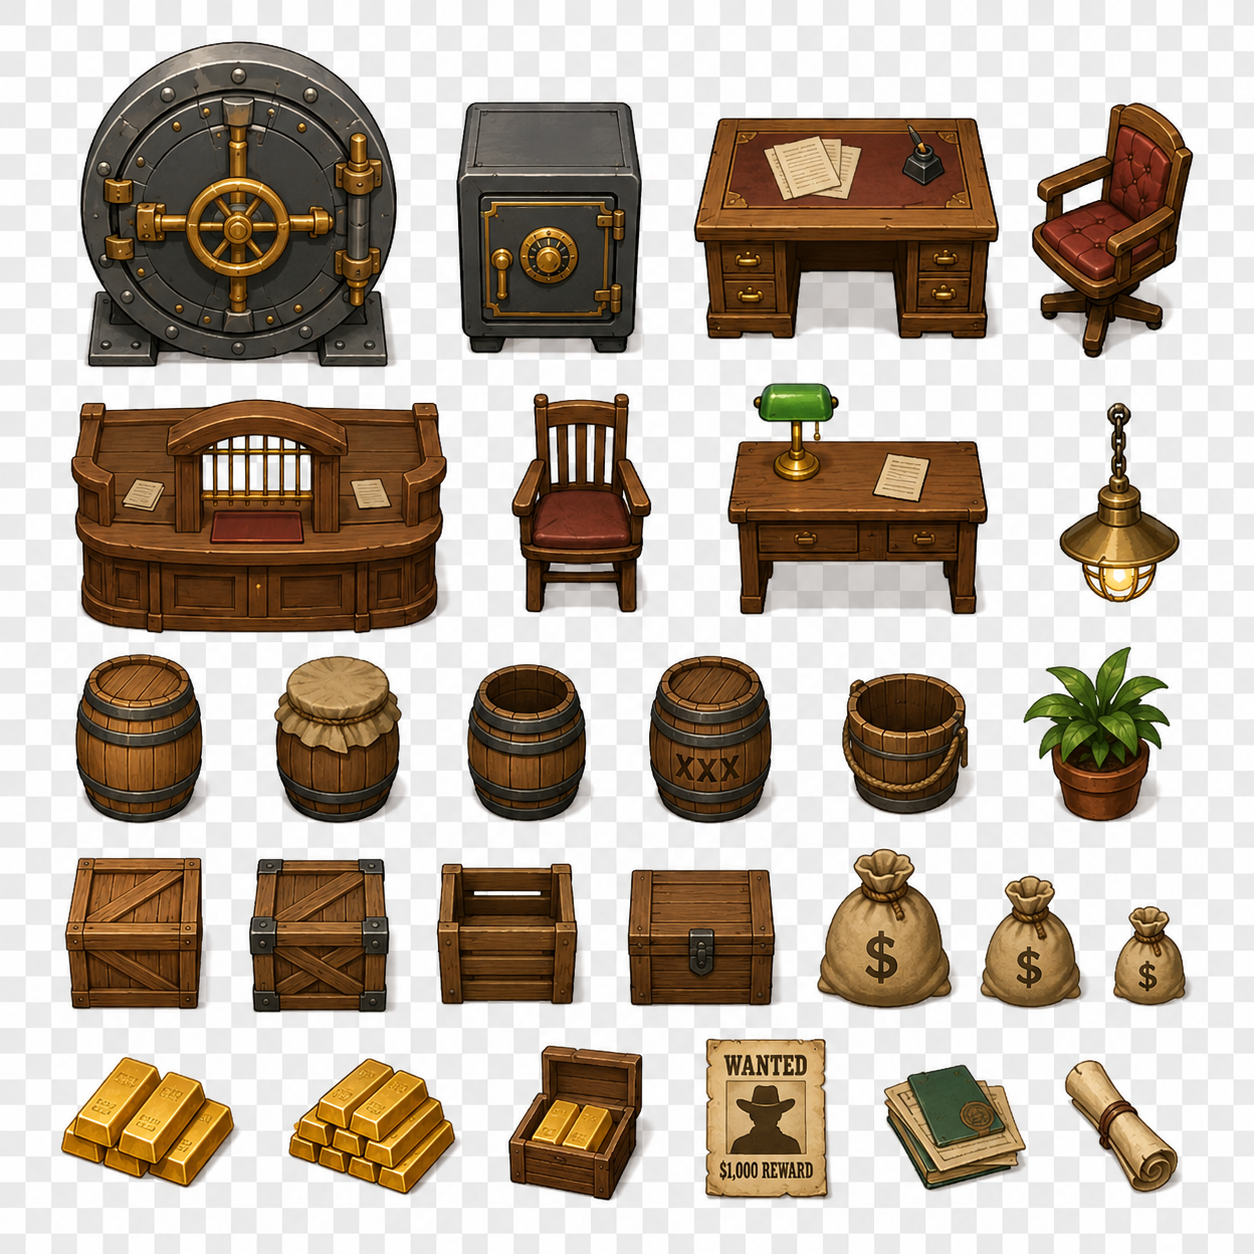
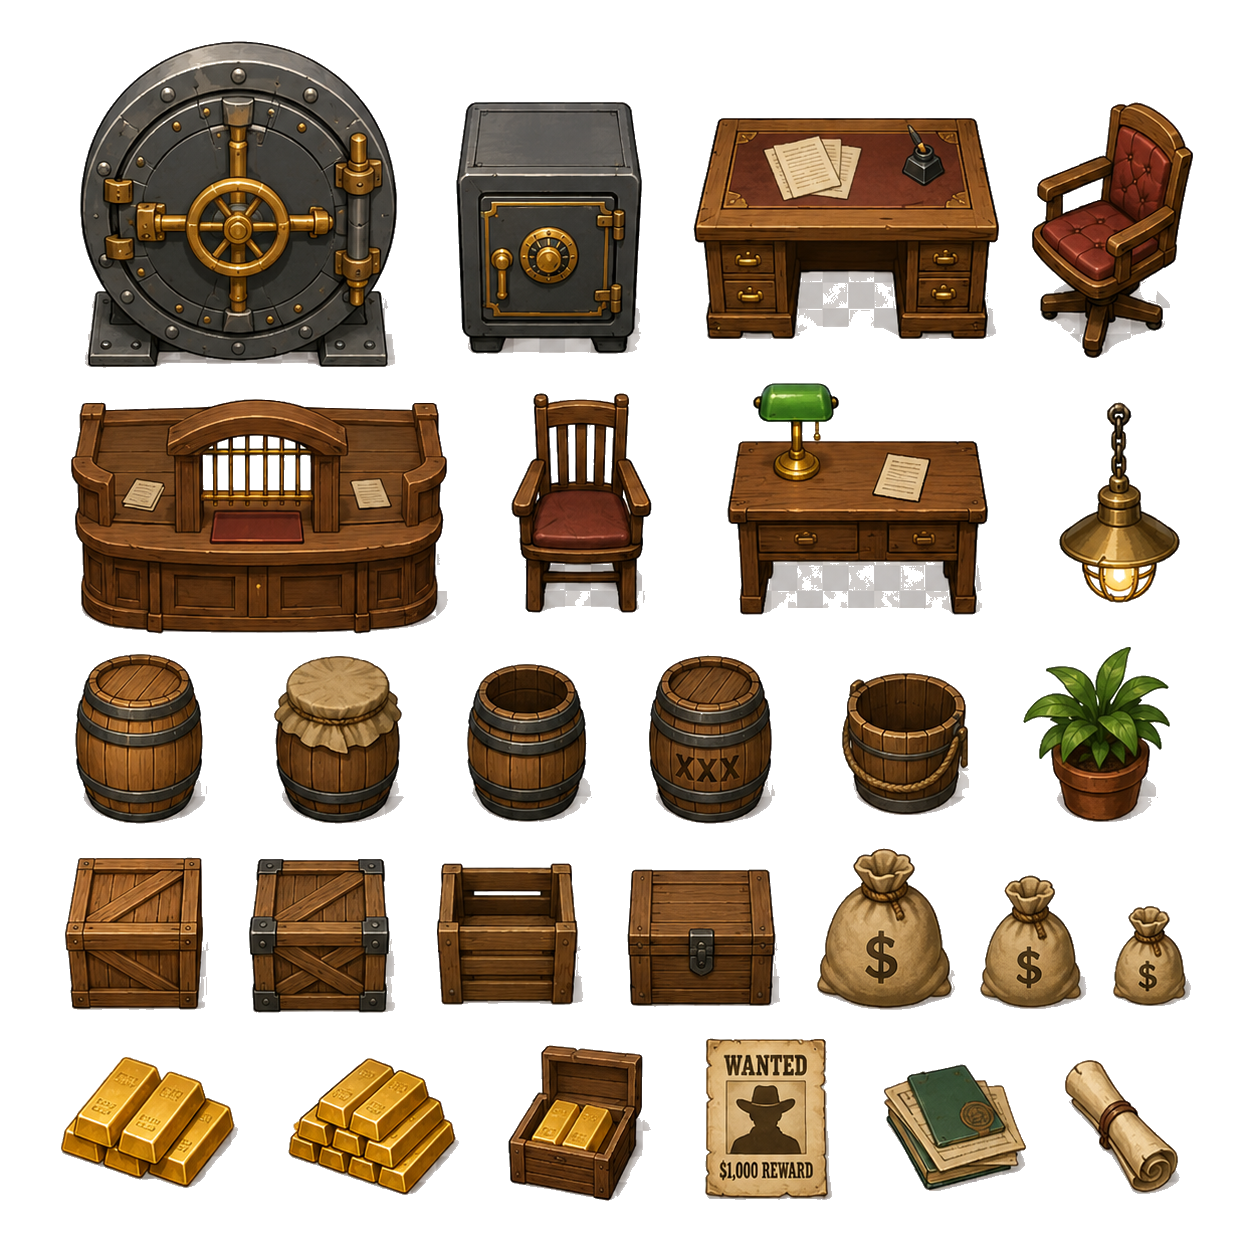
Mission: murs/comptoir textures, sol recadre (seams), fond transparent, perso
- Color-key des 3 planches: fond gris clair opaque -> transparent (RGBA);
  supprime les rectangles blancs derriere les objets
- iso_renderer: murs en boites iso a dessus texture bois; long obstacle
  interieur -> comptoir 'BANK'; sol recadre a l'interieur de la dalle (moins
  de seams); coffre/sacs/porte de coffre/barils/caisses textures
- Support planche personnages optionnelle (characters_sheet.png): joueur/garde
  textures si presente, sinon formes; regions par defaut documentees
- Docs ASSET_INTEGRATION.md mises a jour (color-key, perso, ou l'art est utilise)
- Verifie: parse OK, rendus mission + BankVisualTest a l'ecran, export Web OK

diff --git a/assets/ASSET_INTEGRATION.md b/assets/ASSET_INTEGRATION.md
@@ -96,7 +96,37 @@ instancie le prop visuel en enfant) sans toucher à son script ni ses signaux.
 > `scenes/levels/BankVisualTest.tscn` démontre l'intégration des décors. La
 > migration du rendu de mission vers les sprites est listée dans `TODO.md`.
 
-## 6. Affiner / remplacer plus tard
+## 6. Fond transparent (color-key)
+
+Les planches livrées étaient en **RGB sans alpha**, avec un **fond gris clair/blanc
+opaque** (qui apparaissait en rectangles blancs derrière les objets). Elles ont été
+converties en **RGBA** avec le fond rendu **transparent** (pixels clairs et peu
+saturés → alpha 0). Si tu réuploades des planches, refais l'opération, ou exporte
+directement avec un fond transparent.
+
+## 7. Personnages (planche optionnelle)
+
+Le joueur et les gardes sont dessinés en **formes** par défaut (les planches ne
+contiennent pas de personnage). Pour les texturer, dépose une planche :
+
+`assets/source_sheets/characters_sheet.png`
+
+Régions par défaut (modifiables dans `iso_renderer.gd`) :
+- Joueur : `Rect2(0, 0, 128, 128)`
+- Garde : `Rect2(128, 0, 128, 128)`
+
+Si le fichier est présent, `iso_renderer.gd` l'utilise automatiquement (sinon
+formes). Pense aussi à color-key son fond.
+
+## 8. Où l'art est utilisé
+
+- **Mission jouable** (`MissionRoot.tscn`) : `iso_renderer.gd` dessine le sol
+  (dalles texturées), le coffre, les sacs, le comptoir « BANK », la porte de
+  coffre et des props (barils/caisses/bureau) via les régions d'atlas. Murs en
+  boîtes iso à dessus bois. Personnages/cônes en formes.
+- **Vitrine** (`scenes/levels/BankVisualTest.tscn`) : compose les scènes props.
+
+## 9. Affiner / remplacer plus tard
 
 1. **Cadrage précis** : ouvre une planche dans l'éditeur Godot, sélectionne le
    `Sprite2D` d'un prop, et ajuste `region_rect` au pixel (outil de région).
